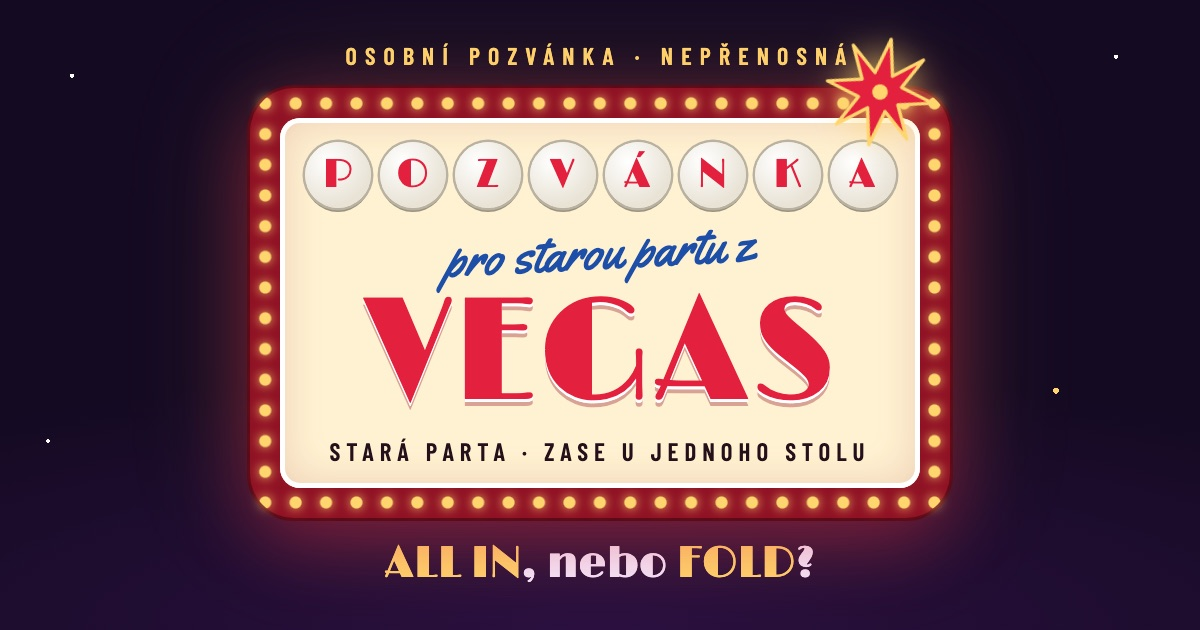
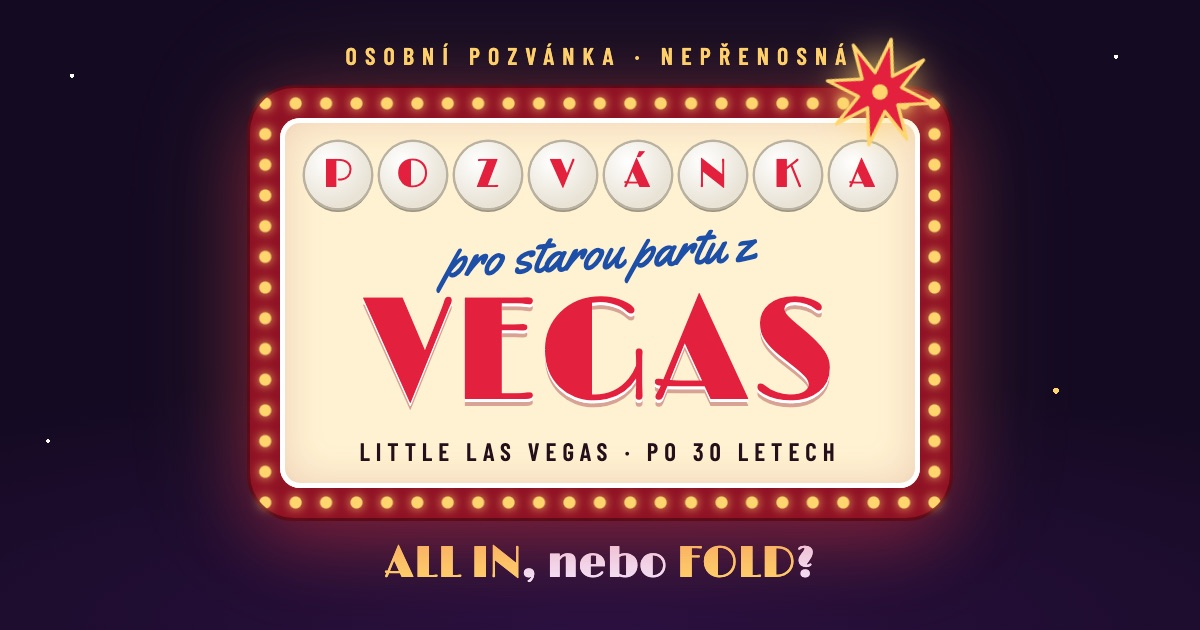
Cedule: po 30 letech

Changed region(s): [[0.2775, 0.6937, 0.74, 0.754]]

diff --git a/index.html b/index.html
@@ -4,13 +4,13 @@
 <meta charset="utf-8">
 <meta name="viewport" content="width=device-width,initial-scale=1,viewport-fit=cover">
 <title>Pozvánka pro starou partu z Vegas</title>
-<meta name="description" content="Osobní, nepřenosná. Tak co, hraješ? ALL IN, nebo FOLD.">
+<meta name="description" content="Setkání po 30 letech. Osobní, nepřenosná. ALL IN, nebo FOLD?">
 <meta name="robots" content="noindex,nofollow">
 <meta name="theme-color" content="#140a22">
 <meta property="og:type" content="website">
 <meta property="og:locale" content="cs_CZ">
 <meta property="og:title" content="Pozvánka pro starou partu z Vegas">
-<meta property="og:description" content="Osobní, nepřenosná. Tak co, hraješ? ALL IN, nebo FOLD.">
+<meta property="og:description" content="Setkání po 30 letech. Osobní, nepřenosná. ALL IN, nebo FOLD?">
 <meta property="og:url" content="https://privatetc.github.io/vegas/">
 <meta property="og:image" content="https://privatetc.github.io/vegas/og.jpg">
 <meta property="og:image:width" content="1200">
@@ -271,7 +271,7 @@ a.link{display:inline-block}
       <div class="coins" aria-hidden="true"><span>P</span><span>O</span><span>Z</span><span>V</span><span>Á</span><span>N</span><span>K</span><span>A</span></div>
       <p class="script">pro starou partu z</p>
       <h1 class="vegas">VEGAS</h1>
-      <p class="tag">Stará parta · zase u jednoho stolu</p>
+      <p class="tag">Little Las Vegas · po 30 letech</p>
     </div>
   </section>
 
